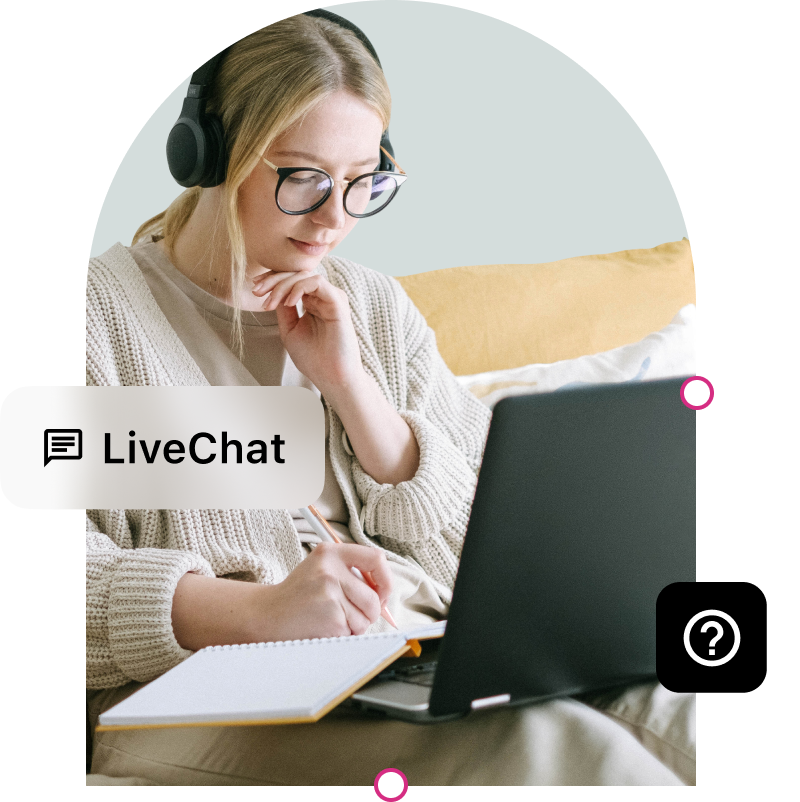
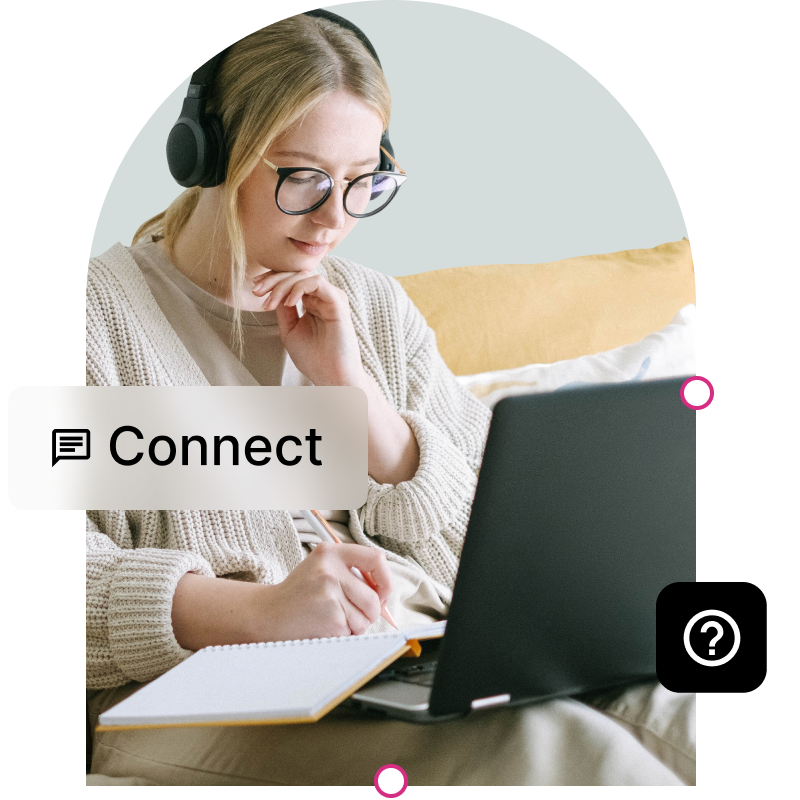
Replace references to live chat - Part 2 (#91326)
* Replace references to live chat - Part 2

* update image

diff --git a/client/my-sites/plans-features-main/components/plan-faq.jsx b/client/my-sites/plans-features-main/components/plan-faq.jsx
@@ -5,6 +5,8 @@ import {
 	PLAN_ECOMMERCE,
 	getPlan,
 } from '@automattic/calypso-products';
+import { ExternalLink } from '@automattic/components';
+import { localizeUrl, useHasEnTranslation } from '@automattic/i18n-utils';
 import styled from '@emotion/styled';
 import { useTranslate } from 'i18n-calypso';
 import { useCallback } from 'react';
@@ -28,6 +30,7 @@ const FoldableFAQ = styled( FoldableFAQComponent )`
 const PlanFAQ = ( { titanMonthlyRenewalCost = 0 } ) => {
 	const dispatch = useDispatch();
 	const translate = useTranslate();
+	const hasEnTranslation = useHasEnTranslation();
 	const onFaqToggle = useCallback(
 		( faqArgs ) => {
 			const { id, isExpanded } = faqArgs;
@@ -64,10 +67,33 @@ const PlanFAQ = ( { titanMonthlyRenewalCost = 0 } ) => {
 				question={ translate( 'Can I import content from another service?' ) }
 				onToggle={ onFaqToggle }
 			>
-				{ translate(
-					'It is possible to import your blog content from a variety of other blogging platforms, including Blogger, ' +
-						'GoDaddy, Wix, Squarespace, and more. You can also easily import your content from a self-hosted WordPress site.'
-				) }
+				<>
+					{ translate(
+						'It is possible to import your blog content from a variety of other blogging platforms, including Blogger, ' +
+							'GoDaddy, Wix, Squarespace, and more. You can also easily import your content from a self-hosted WordPress site.'
+					) }
+					{ hasEnTranslation(
+						'Want a Happiness Engineer to do a free migration of your WordPress site to WordPress.com? ' +
+							'{{ExternalLink}}Request a Happiness Engineer{{/ExternalLink}} to handle your migration for free!'
+					)
+						? translate(
+								'{{br /}}{{br /}}Want a Happiness Engineer to do a free migration of your WordPress site to WordPress.com? ' +
+									'{{ExternalLink}}Request a Happiness Engineer{{/ExternalLink}} to handle your migration for free!',
+								{
+									components: {
+										br: <br />,
+										ExternalLink: (
+											<ExternalLink
+												href={ localizeUrl(
+													'https://wordpress.com/support/request-a-free-migration/'
+												) }
+											/>
+										),
+									},
+								}
+						  )
+						: null }
+				</>
 			</FoldableFAQ>
 			<FoldableFAQ
 				id="faq-3"
@@ -131,16 +157,44 @@ const PlanFAQ = ( { titanMonthlyRenewalCost = 0 } ) => {
 				) }
 				onToggle={ onFaqToggle }
 			>
-				{ translate(
+				{ hasEnTranslation(
 					'No it won’t! You’re welcome to create your new site with us before pointing the domain here. ' +
 						'That way your current site can stay “live” until your new one is ready.{{br /}}{{br /}}' +
 						'We recommend getting a plan now because they have other features you might find useful, ' +
-						'including direct live chat and email support. Just avoid using the domain options until ' +
-						'you’re ready, and then you can connect or transfer the domain.',
-					{
-						components: { br: <br /> },
-					}
-				) }
+						'including expert support from our team. Just avoid using the domain options until ' +
+						'you’re ready, and then you can connect or transfer the domain.{{br /}}{{br /}}' +
+						'Our Happiness Engineers can also do the migration for you. {{ExternalLink}}Request a Happiness Engineer{{/ExternalLink}} to migrate your site for free!'
+				)
+					? translate(
+							'No it won’t! You’re welcome to create your new site with us before pointing the domain here. ' +
+								'That way your current site can stay “live” until your new one is ready.{{br /}}{{br /}}' +
+								'We recommend getting a plan now because they have other features you might find useful, ' +
+								'including expert support from our team. Just avoid using the domain options until ' +
+								'you’re ready, and then you can connect or transfer the domain.{{br /}}{{br /}}' +
+								'Our Happiness Engineers can also do the migration for you. {{ExternalLink}}Request a Happiness Engineer{{/ExternalLink}} to migrate your site for free!',
+							{
+								components: {
+									br: <br />,
+									ExternalLink: (
+										<ExternalLink
+											href={ localizeUrl(
+												'https://wordpress.com/support/request-a-free-migration/'
+											) }
+										/>
+									),
+								},
+							}
+					  )
+					: translate(
+							'No it won’t! You’re welcome to create your new site with us before pointing the domain here. ' +
+								'That way your current site can stay “live” until your new one is ready.{{br /}}{{br /}}' +
+								'We recommend getting a plan now because they have other features you might find useful, ' +
+								'including direct live chat and email support. Just avoid using the domain options until ' +
+								'you’re ready, and then you can connect or transfer the domain.',
+							{
+								components: { br: <br /> },
+							}
+					  ) }
 			</FoldableFAQ>
 			<FoldableFAQ
 				id="faq-8"
@@ -230,21 +284,38 @@ const PlanFAQ = ( { titanMonthlyRenewalCost = 0 } ) => {
 				question={ translate( 'Can I talk to a live person?' ) }
 				onToggle={ onFaqToggle }
 			>
-				{ translate(
-					'We’d love to chat with you! All paid plans include access to one-on-one support from our ' +
-						'team of WordPress experts (we call them Happiness Engineers). The %(personalPlanName)s plan includes ' +
-						'email support while the %(premiumPlanName)s plan and above all include live chat support.{{br /}}{{br /}}' +
-						'If you have pre-purchase questions, we offer live chat on the checkout page. Select the plan ' +
+				{ hasEnTranslation(
+					'We’d love to talk with you! All paid plans include access to support from our ' +
+						'team of WordPress experts (we call them Happiness Engineers).{{br /}}{{br /}}' +
+						'And if you have pre-purchase questions, we can talk at the checkout page. Select the plan ' +
 						'that looks like the best fit for you and click the “Questions? Ask a Happiness Engineer” ' +
-						'link on the next page.',
-					{
-						args: {
-							personalPlanName: getPlan( PLAN_PERSONAL ).getTitle(),
-							premiumPlanName: getPlan( PLAN_PREMIUM ).getTitle(),
-						},
-						components: { br: <br /> },
-					}
-				) }
+						'link on the next page.'
+				)
+					? translate(
+							'We’d love to talk with you! All paid plans include access to support from our ' +
+								'team of WordPress experts (we call them Happiness Engineers).{{br /}}{{br /}}' +
+								'And if you have pre-purchase questions, we can talk at the checkout page. Select the plan ' +
+								'that looks like the best fit for you and click the “Questions? Ask a Happiness Engineer” ' +
+								'link on the next page.',
+							{
+								components: { br: <br /> },
+							}
+					  )
+					: translate(
+							'We’d love to chat with you! All paid plans include access to one-on-one support from our ' +
+								'team of WordPress experts (we call them Happiness Engineers). The %(personalPlanName)s plan includes ' +
+								'email support while the %(premiumPlanName)s plan and above all include live chat support.{{br /}}{{br /}}' +
+								'If you have pre-purchase questions, we offer live chat on the checkout page. Select the plan ' +
+								'that looks like the best fit for you and click the “Questions? Ask a Happiness Engineer” ' +
+								'link on the next page.',
+							{
+								args: {
+									personalPlanName: getPlan( PLAN_PERSONAL ).getTitle(),
+									premiumPlanName: getPlan( PLAN_PREMIUM ).getTitle(),
+								},
+								components: { br: <br /> },
+							}
+					  ) }
 			</FoldableFAQ>
 		</div>
 	);

diff --git a/client/components/marketing-survey/cancel-purchase-form/step-components/upsell-step.tsx b/client/components/marketing-survey/cancel-purchase-form/step-components/upsell-step.tsx
@@ -3,6 +3,7 @@ import { getPlan, PLAN_PERSONAL, PLAN_BUSINESS } from '@automattic/calypso-produ
 import page from '@automattic/calypso-router';
 import formatCurrency from '@automattic/format-currency';
 import { useChatWidget } from '@automattic/help-center/src/hooks';
+import { useHasEnTranslation } from '@automattic/i18n-utils';
 import { Button } from '@wordpress/components';
 import { useTranslate, numberFormat } from 'i18n-calypso';
 import { useState } from 'react';
@@ -108,6 +109,7 @@ type StepProps = {
 
 export default function UpsellStep( { upsell, site, purchase, ...props }: StepProps ) {
 	const translate = useTranslate();
+	const hasEnTranslation = useHasEnTranslation();
 	const currencyCode = useSelector( getCurrentUserCurrencyCode ) || 'USD';
 	const numberOfPluginsThemes = numberFormat( 50000, 0 );
 	const discountRate = 25;
@@ -124,8 +126,16 @@ export default function UpsellStep( { upsell, site, purchase, ...props }: StepPr
 		case 'live-chat:domains':
 			return (
 				<Upsell
-					title={ translate( 'Chat with a real person right now' ) }
-					acceptButtonText={ translate( 'Let’s have a chat' ) }
+					title={
+						hasEnTranslation( 'Connect with our Happiness Engineers' )
+							? translate( 'Connect with our Happiness Engineers' )
+							: translate( 'Chat with a real person right now' )
+					}
+					acceptButtonText={
+						hasEnTranslation( 'Connect with a Happiness Engineer' )
+							? translate( 'Connect with a Happiness Engineer' )
+							: translate( 'Let’s have a chat' )
+					}
 					onAccept={ () => {
 						recordTracksEvent( 'calypso_cancellation_upsell_step_live_chat_click', {
 							type: upsell,
@@ -143,13 +153,24 @@ export default function UpsellStep( { upsell, site, purchase, ...props }: StepPr
 					onDecline={ props.onDeclineUpsell }
 					image={ imgLiveChat }
 				>
-					{ translate(
-						'If you’re feeling a bit stuck with your site, our expert {{b}}Happiness Engineers{{/b}} are always ready to chat. ' +
-							'Whatever you’re struggling with - from customizing your design to sorting out your domain - they’ll listen, guide you, and get you the advice you need to make it happen.',
-						{
-							components: { b: <strong /> },
-						}
-					) }
+					{ hasEnTranslation(
+						'If you’re feeling a bit stuck with your site, our expert {{b}}Happiness Engineers{{/b}} are always ready to help. ' +
+							'Whatever you’re struggling with - from customizing your design to sorting out your domain - they’ll listen, guide you, and get you the advice you need to make it happen.'
+					)
+						? translate(
+								'If you’re feeling a bit stuck with your site, our expert {{b}}Happiness Engineers{{/b}} are always ready to help. ' +
+									'Whatever you’re struggling with - from customizing your design to sorting out your domain - they’ll listen, guide you, and get you the advice you need to make it happen.',
+								{
+									components: { b: <strong /> },
+								}
+						  )
+						: translate(
+								'If you’re feeling a bit stuck with your site, our expert {{b}}Happiness Engineers{{/b}} are always ready to chat. ' +
+									'Whatever you’re struggling with - from customizing your design to sorting out your domain - they’ll listen, guide you, and get you the advice you need to make it happen.',
+								{
+									components: { b: <strong /> },
+								}
+						  ) }
 				</Upsell>
 			);
 		case 'built-by':
